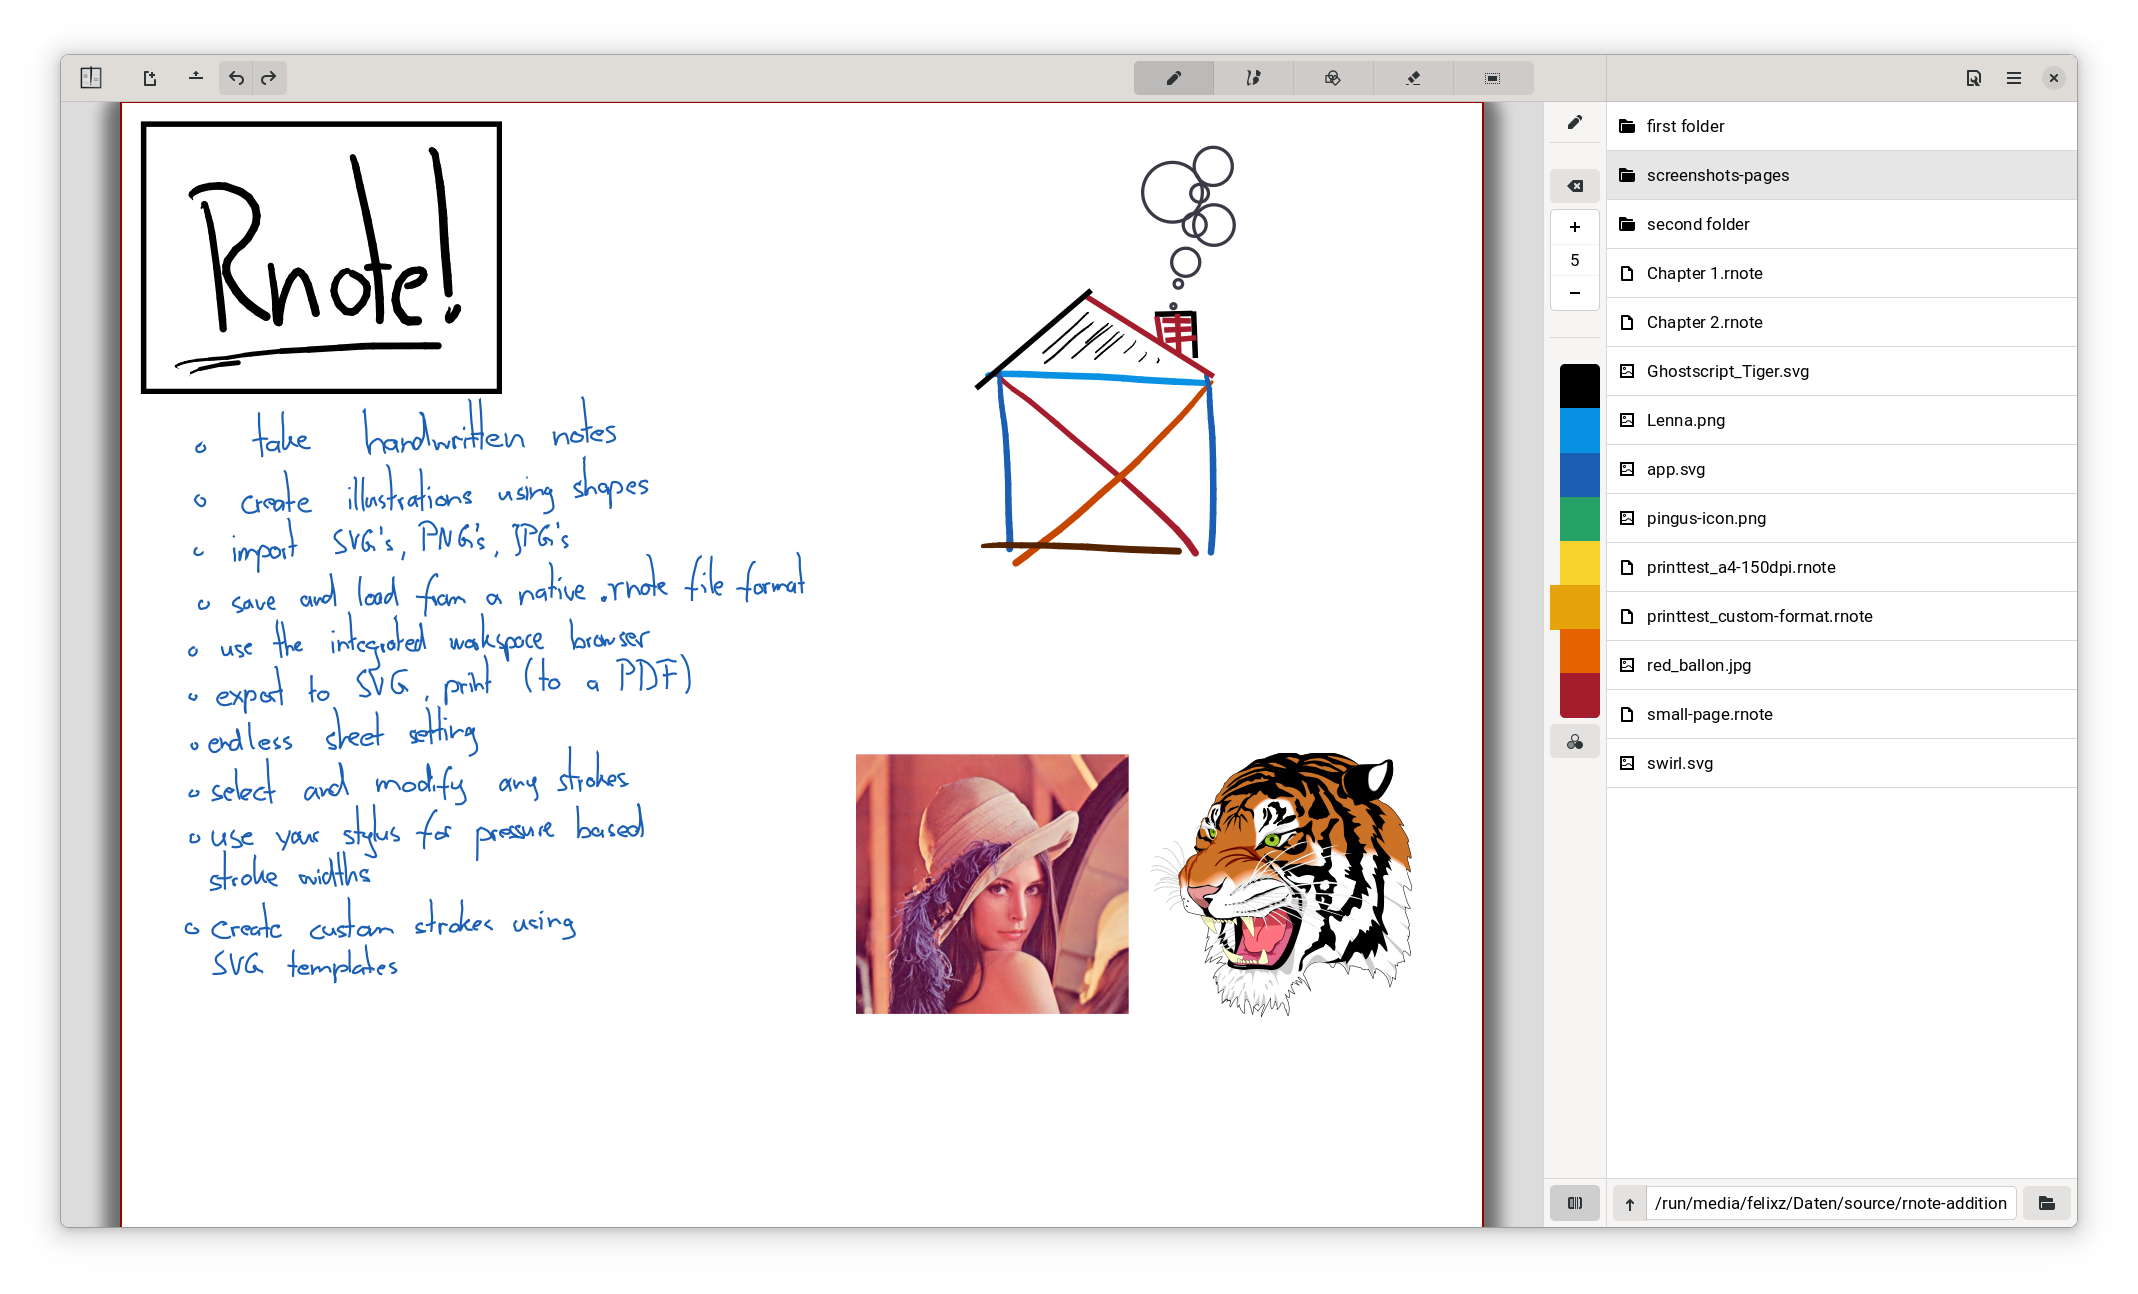
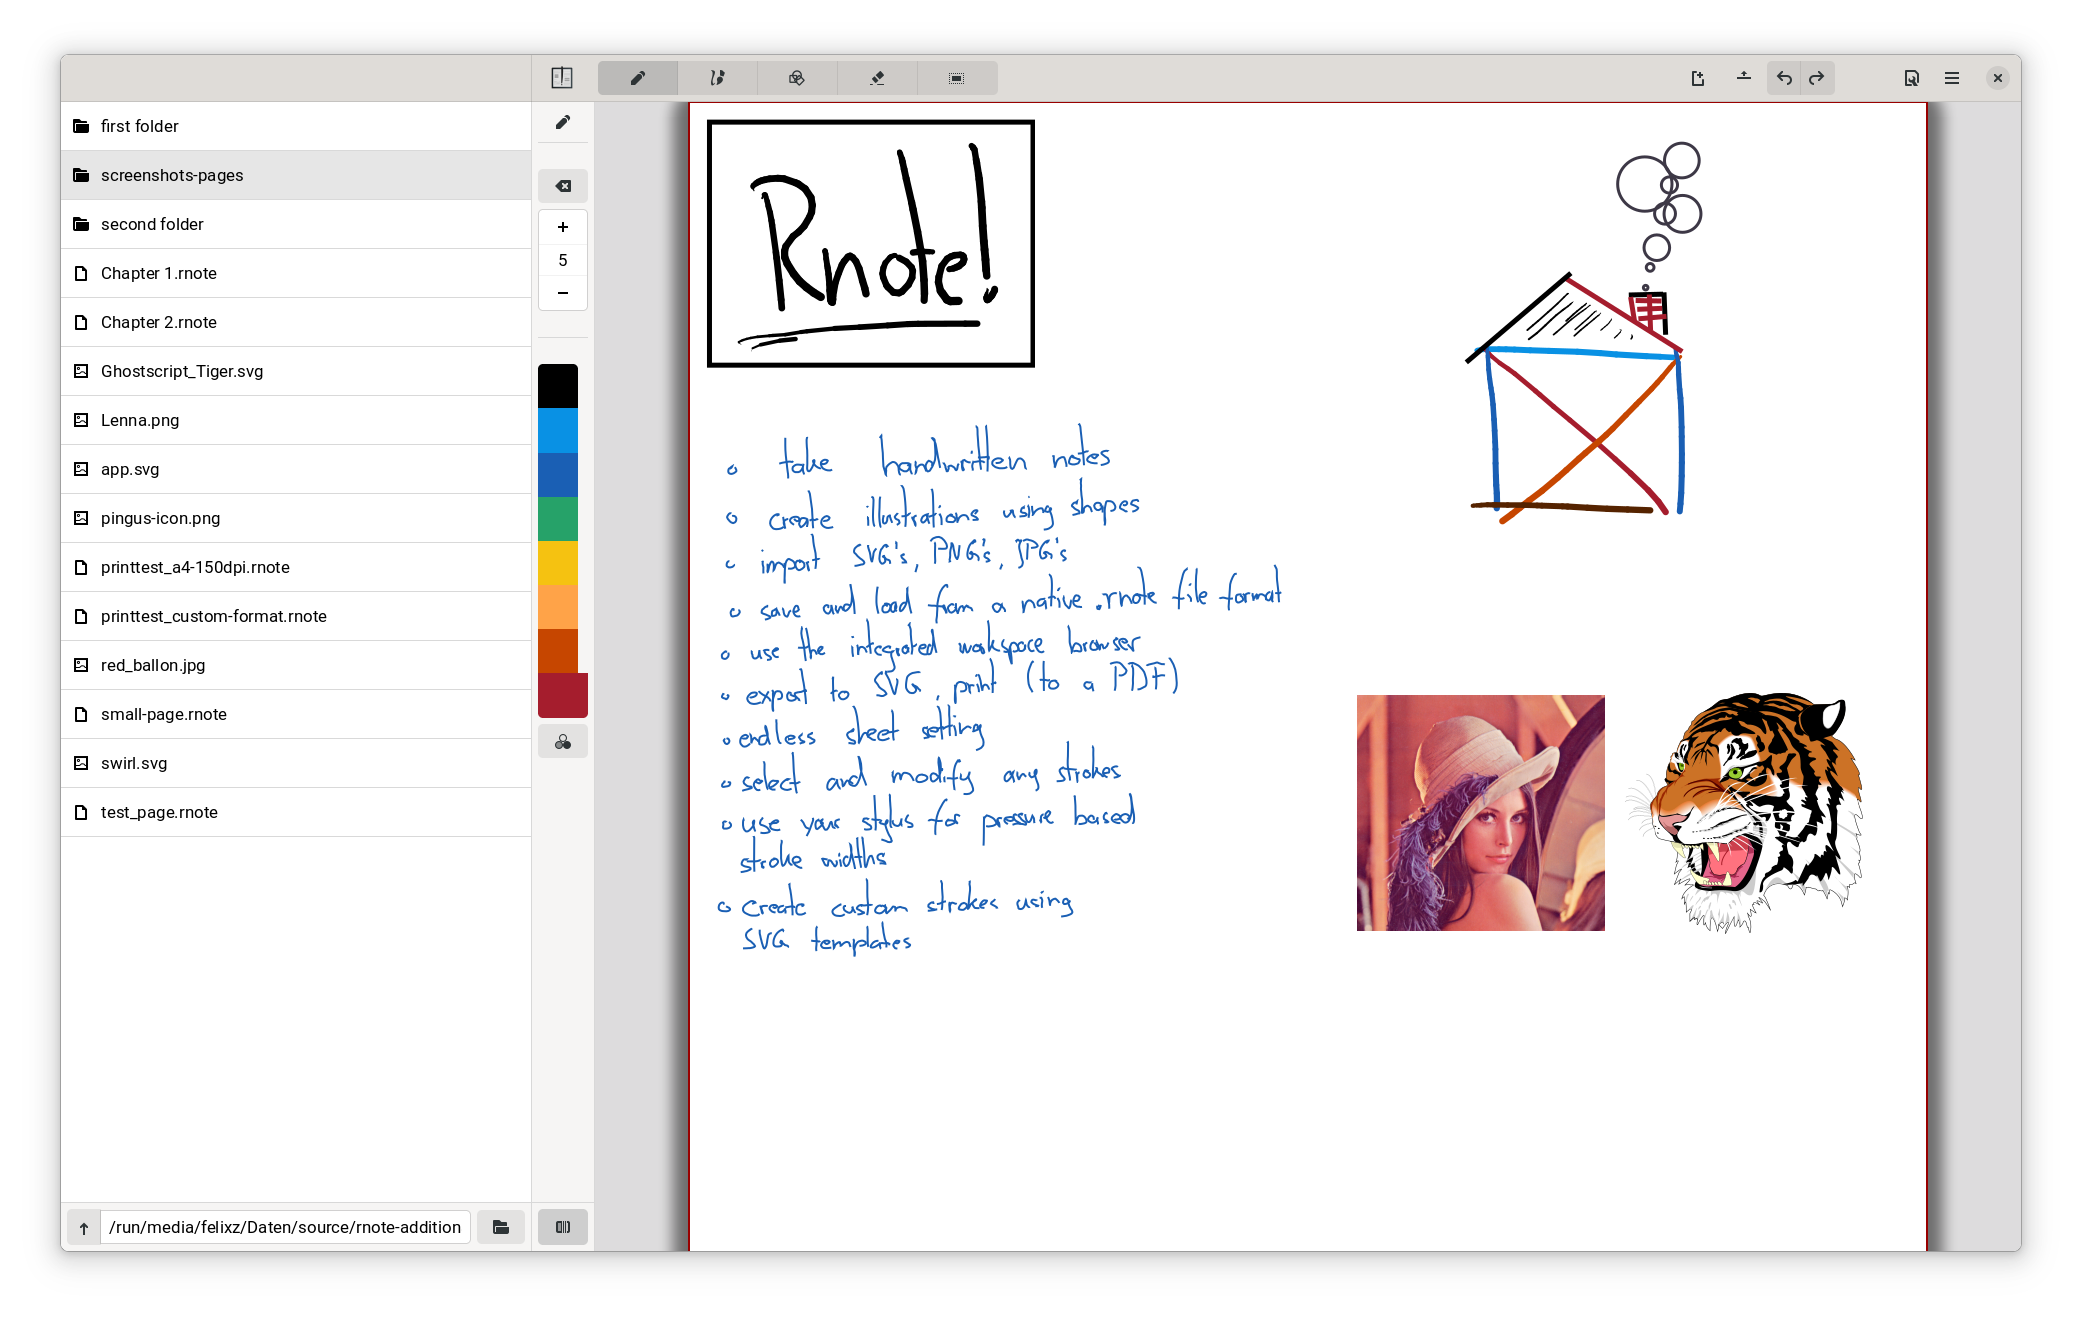
documentation updates

Changed region(s): [[0.0312, 0.0309, 0.999, 0.9583], [0.5307, 0.0309, 0.5932, 0.0927], [0.8429, 0.0309, 0.8742, 0.0618]]

diff --git a/README.md b/README.md
@@ -6,7 +6,7 @@
 # Rnote
 A simple note taking application written in Rust and GTK4.
 
-My motivation for this project is to create a simple but functional note taking application for freehand drawing or annotating pictures or documents. It eventually should be able to import / export various media file formats.  
+Rnote aims to be a simple but functional note taking application for freehand drawing or annotating pictures or documents. It eventually should be able to import / export various media file formats.  
 One main consideration is that it is vector based, which should make it very flexible in editing and altering the contents.
 
 **Disclaimer**  
@@ -36,7 +36,10 @@ Rnote is available as  a flatpak on Flathub:
 
 ## Screenshots
 
-![2021-08-10-rnote.jpg](./resources/screenshots/main_window_dark.png)
+![main_window_dark](./resources/screenshots/main_window_dark.png)
+![main_window_light](./resources/screenshots/main_window_light.png)
+![multiple_pages](./resources/screenshots/multiple_pages.png)
+![selection](./resources/screenshots/selection.png)
 
 ### Building with Flatpak
 There is a flatpak manifest in `build-aux/com.github.flxzt.rnote.json`.
